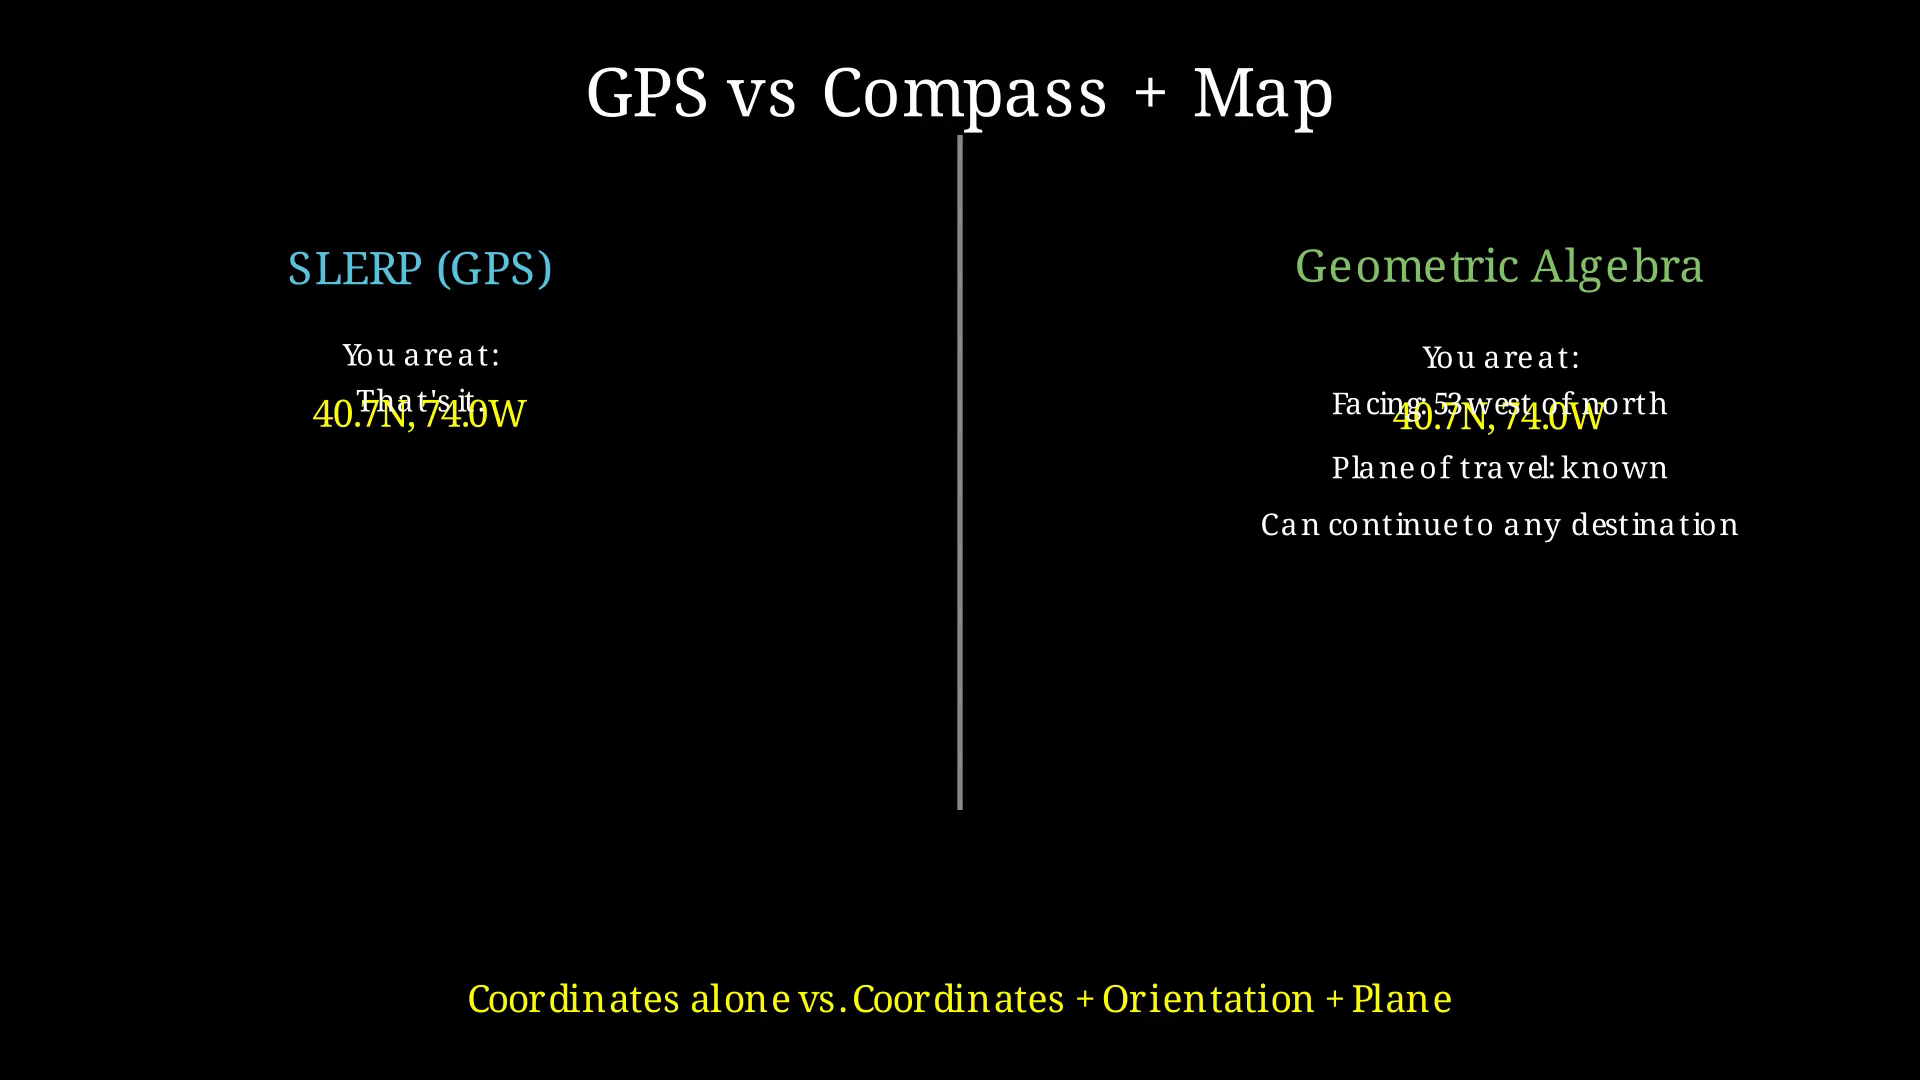
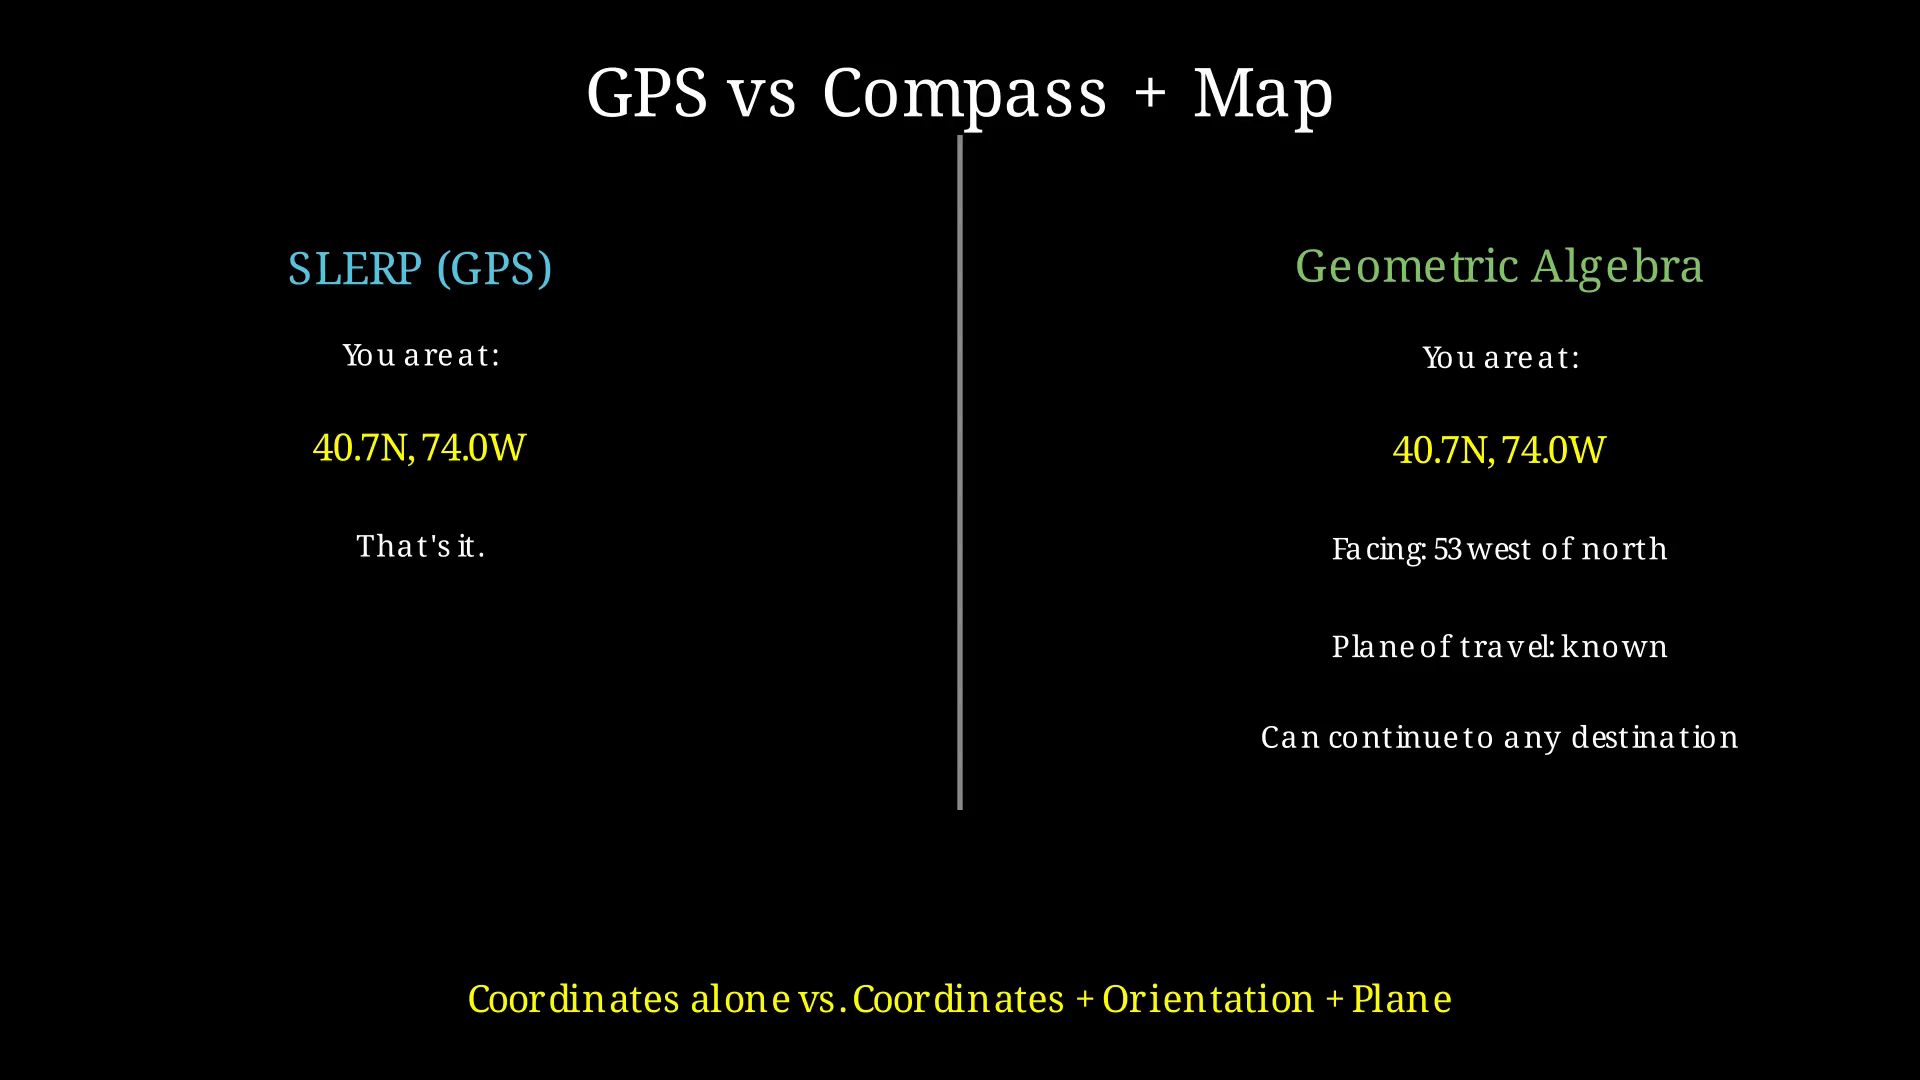
Fix GPS vs Compass spacing - use larger buff instead of empty text
- Remove empty space text element (was being ignored by renderer)
- Increase buff from 0.25 to 0.5 in VGroup.arrange()
- This creates consistent spacing between all text elements
- Rerender and update Scene5_GPSvsCompass.png

diff --git a/visualizations/ch2_traveling_world.py b/visualizations/ch2_traveling_world.py
@@ -192,9 +192,8 @@ class Scene5_GPSvsCompass(Scene):
         slerp_desc = VGroup(
             Text("You are at:", font_size=16),
             Text("40.7N, 74.0W", font_size=20, color=YELLOW),
-            Text(" ", font_size=20),
             Text("That's it.", font_size=16),
-        ).arrange(DOWN, buff=0.25).next_to(slerp_title, DOWN, buff=0.4)
+        ).arrange(DOWN, buff=0.5).next_to(slerp_title, DOWN, buff=0.4)
 
         self.play(Write(slerp_title))
         self.play(Write(slerp_desc))
@@ -204,11 +203,10 @@ class Scene5_GPSvsCompass(Scene):
         ga_desc = VGroup(
             Text("You are at:", font_size=16),
             Text("40.7N, 74.0W", font_size=20, color=YELLOW),
-            Text(" ", font_size=20),
             Text("Facing: 53 west of north", font_size=16),
             Text("Plane of travel: known", font_size=16),
             Text("Can continue to any destination", font_size=16),
-        ).arrange(DOWN, buff=0.25).next_to(ga_title, DOWN, buff=0.4)
+        ).arrange(DOWN, buff=0.5).next_to(ga_title, DOWN, buff=0.4)
 
         self.play(Write(ga_title))
         self.play(Write(ga_desc))
